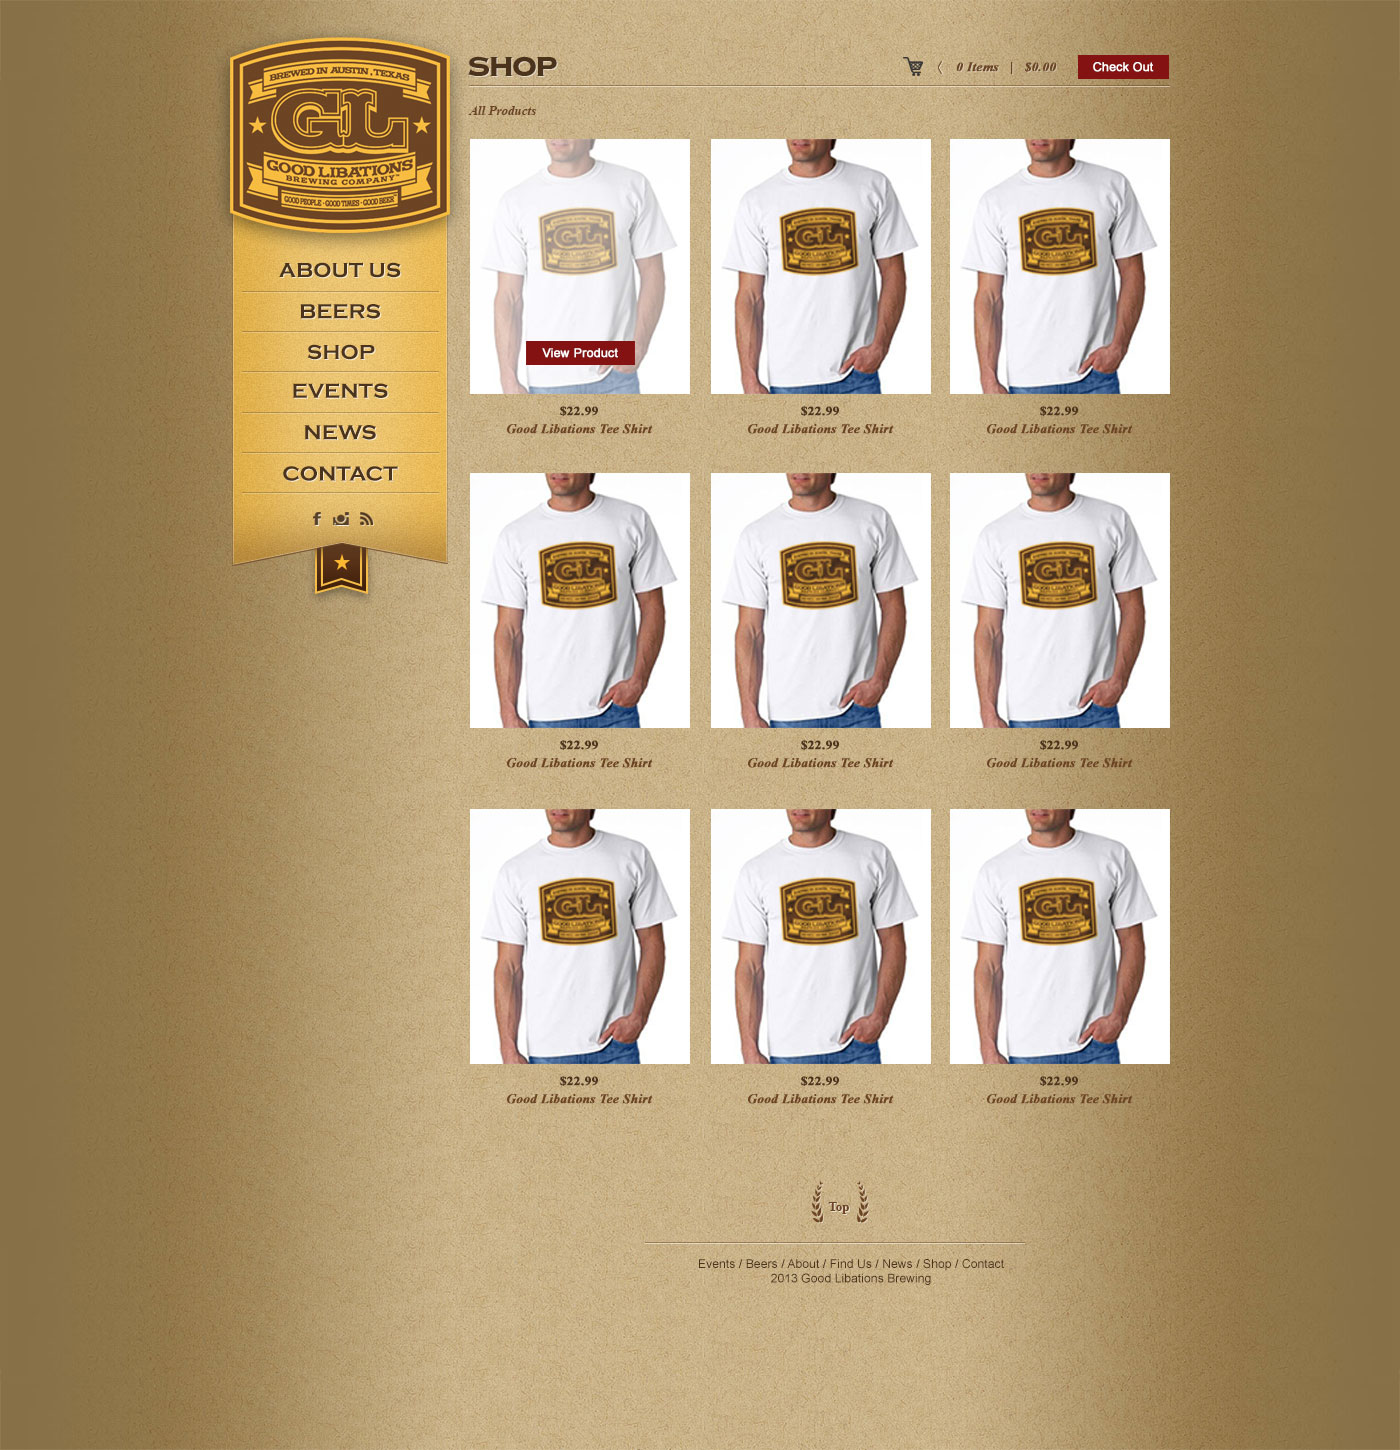
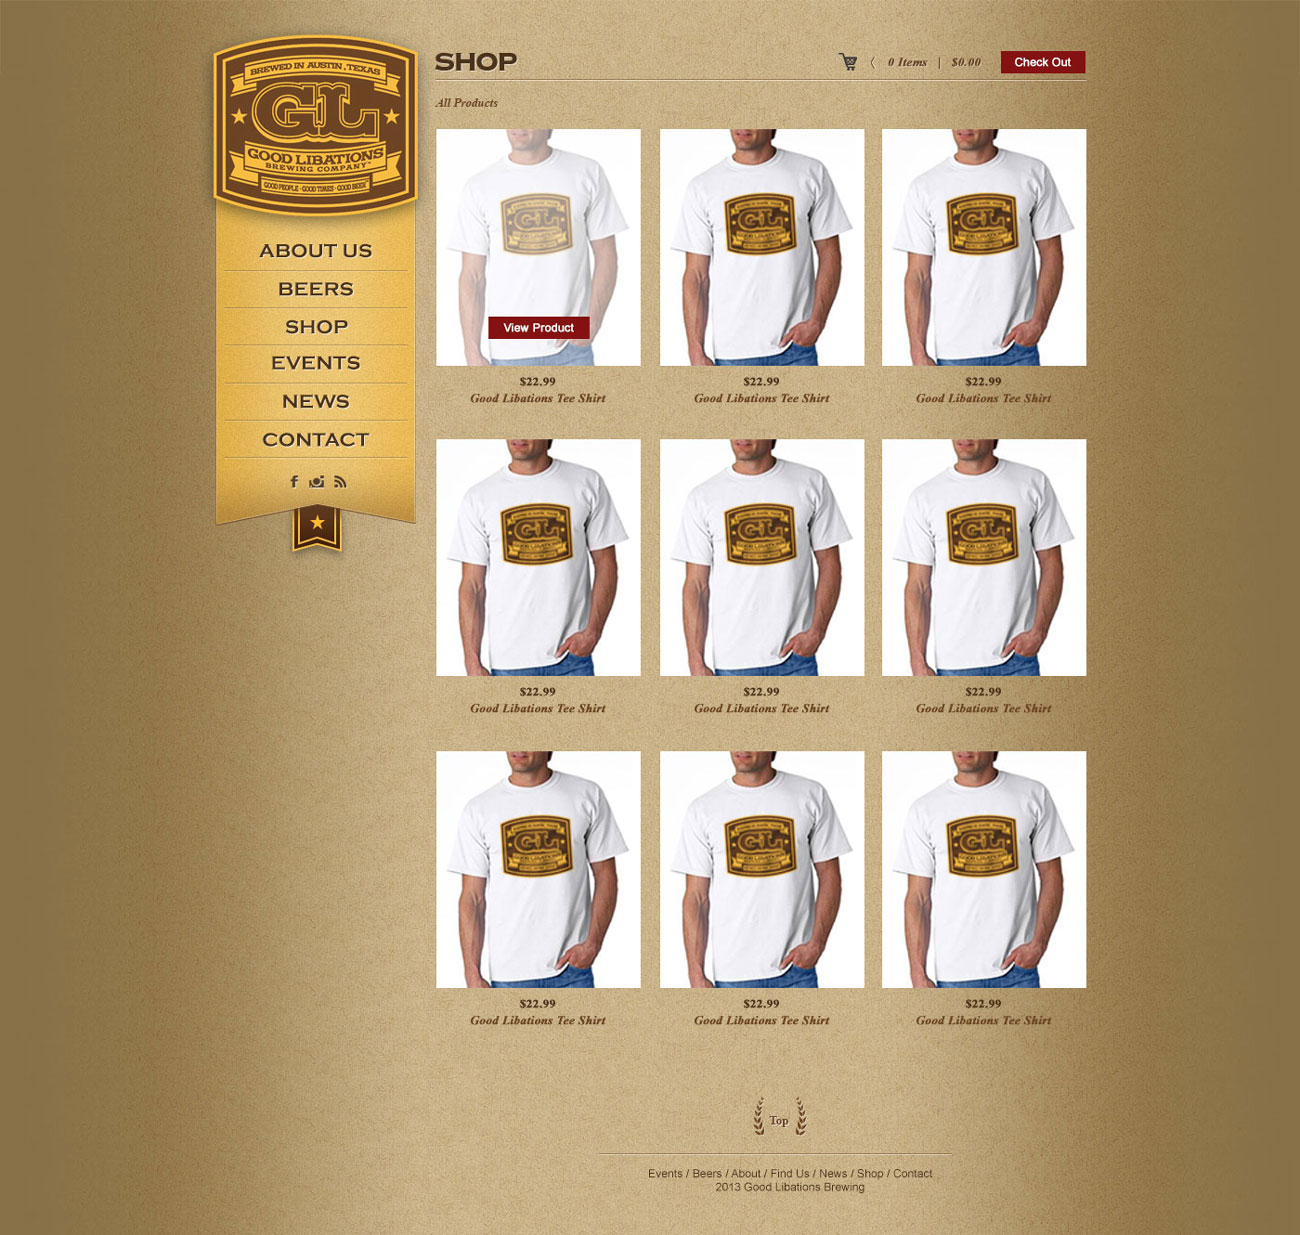
Added protfolio items. Updated main nav

Changed region(s): [[0.1538, 0.0, 0.8615, 0.9846], [0.6462, 0.0308, 0.8308, 0.0615]]

diff --git a/app/styles/partials/_nav.scss b/app/styles/partials/_nav.scss
@@ -22,8 +22,9 @@
         font-weight: 100;
         line-height: 160px;
         text-align: center;
-        border: 1px solid $med-grey;
+        // border: 1px solid $med-grey;
         @include single-transition(all, 150ms, linear);
+        background: $drk-grey;
     }
     a:hover{
         line-height: 155px;

diff --git a/app/styles/_base.scss b/app/styles/_base.scss
@@ -29,6 +29,7 @@ $delta:   1rem;
 
 /* Color palette */
 $mobile-grey:      #333333;
+$drk-grey:         #202020;
 $med-grey:         #AEAEAE;
 $lgt-grey:         #E9E9E9;
 $drk-green:        #655B45;
